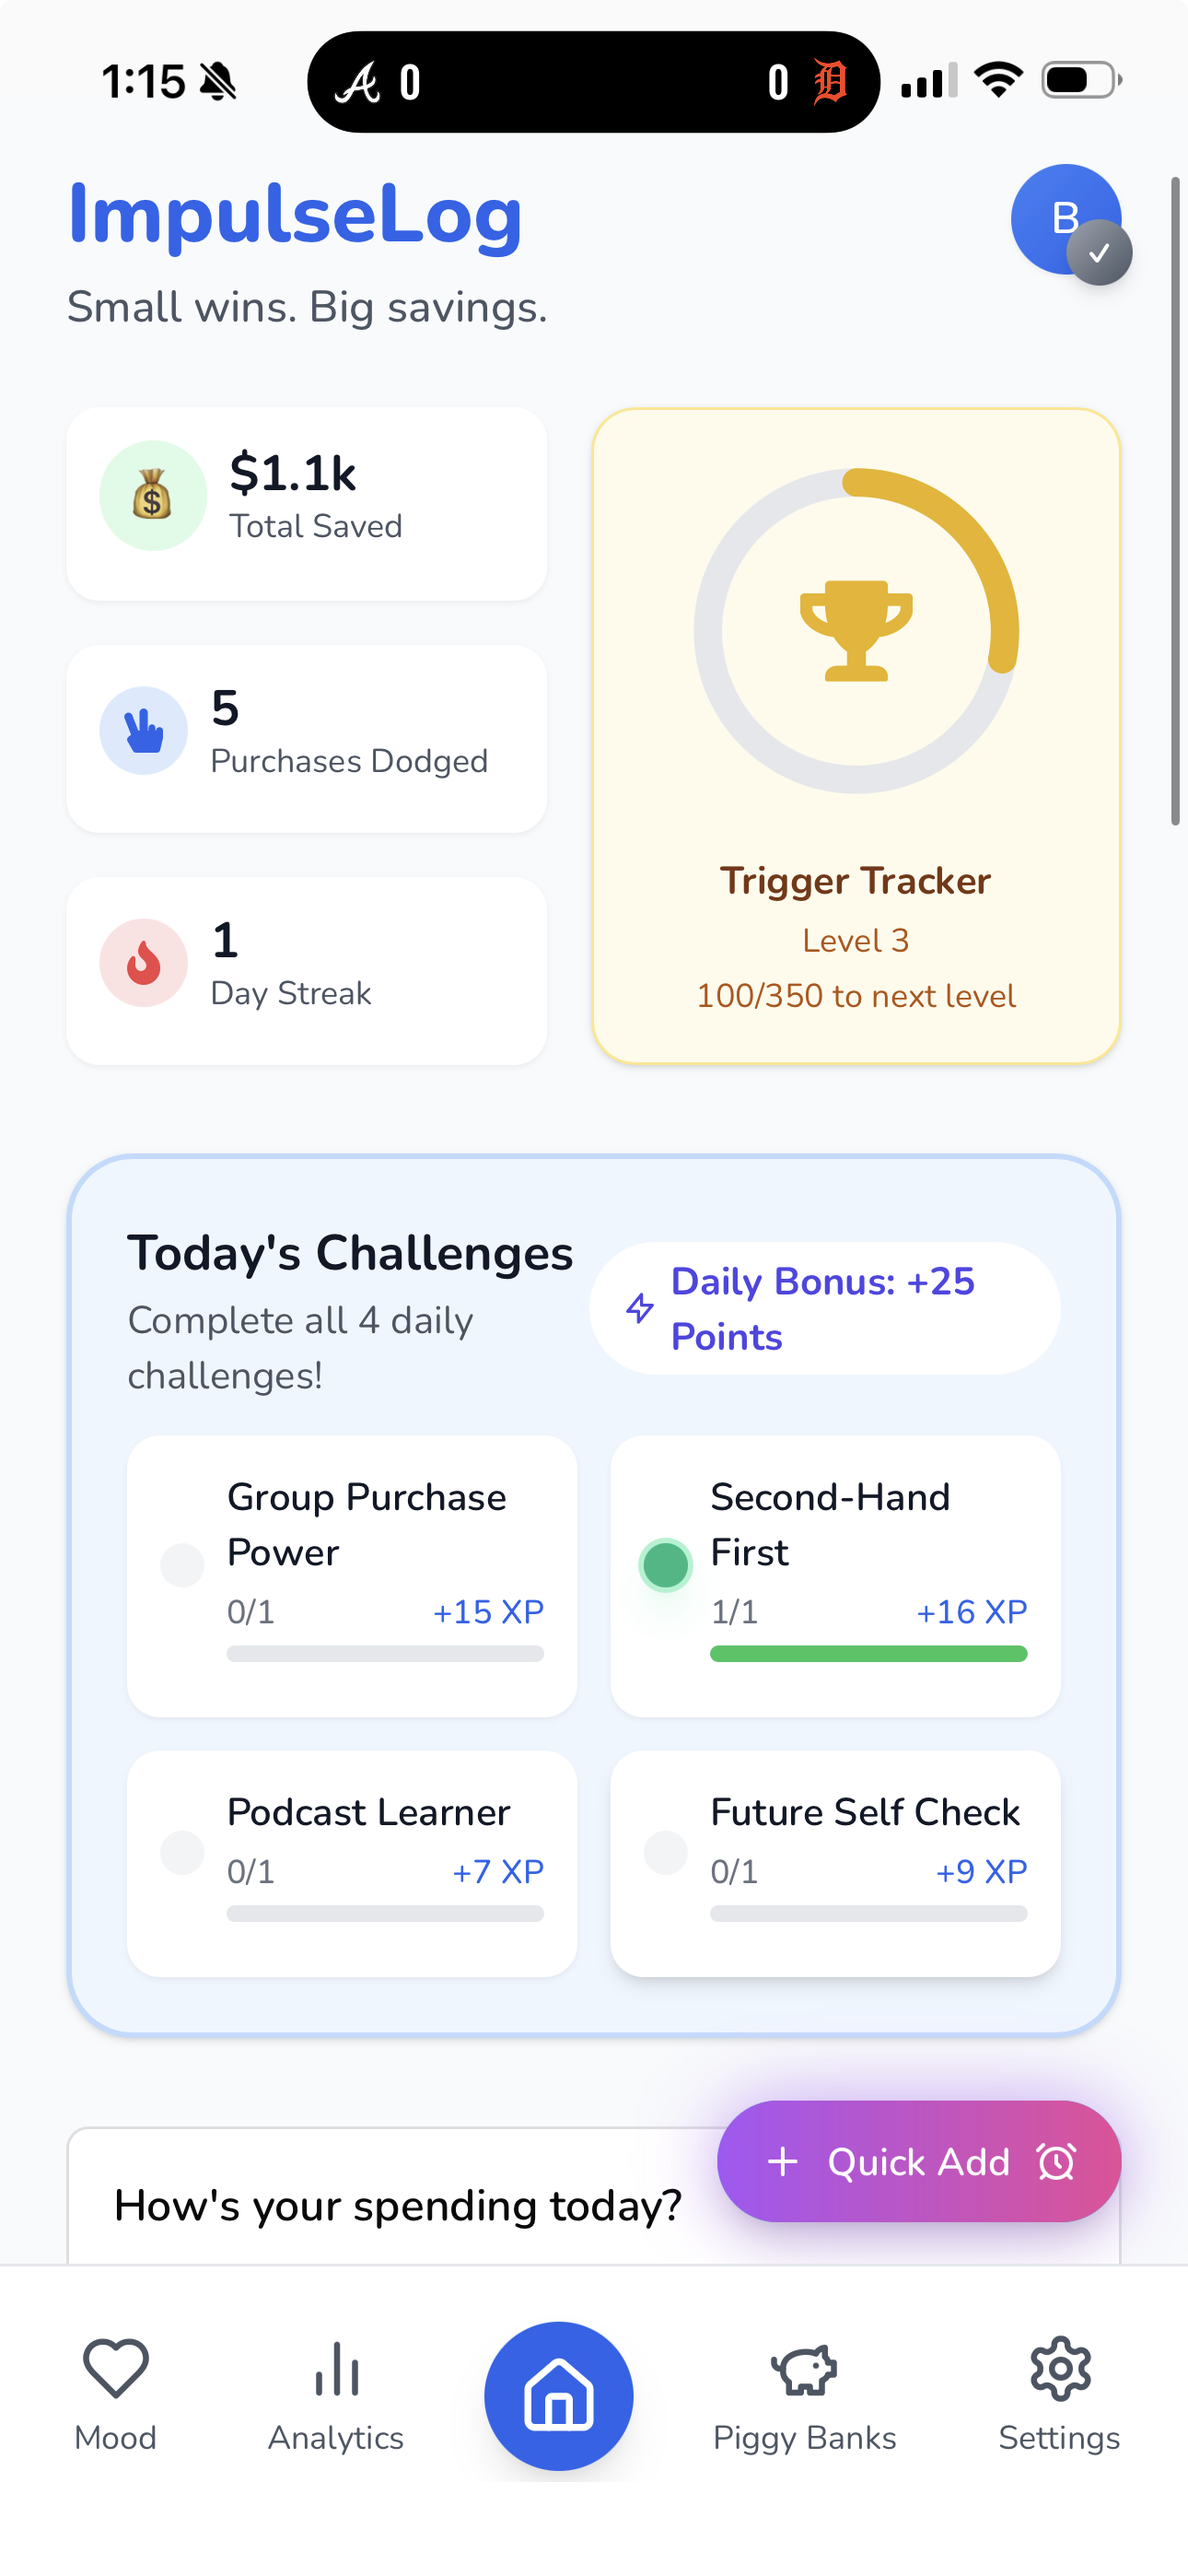
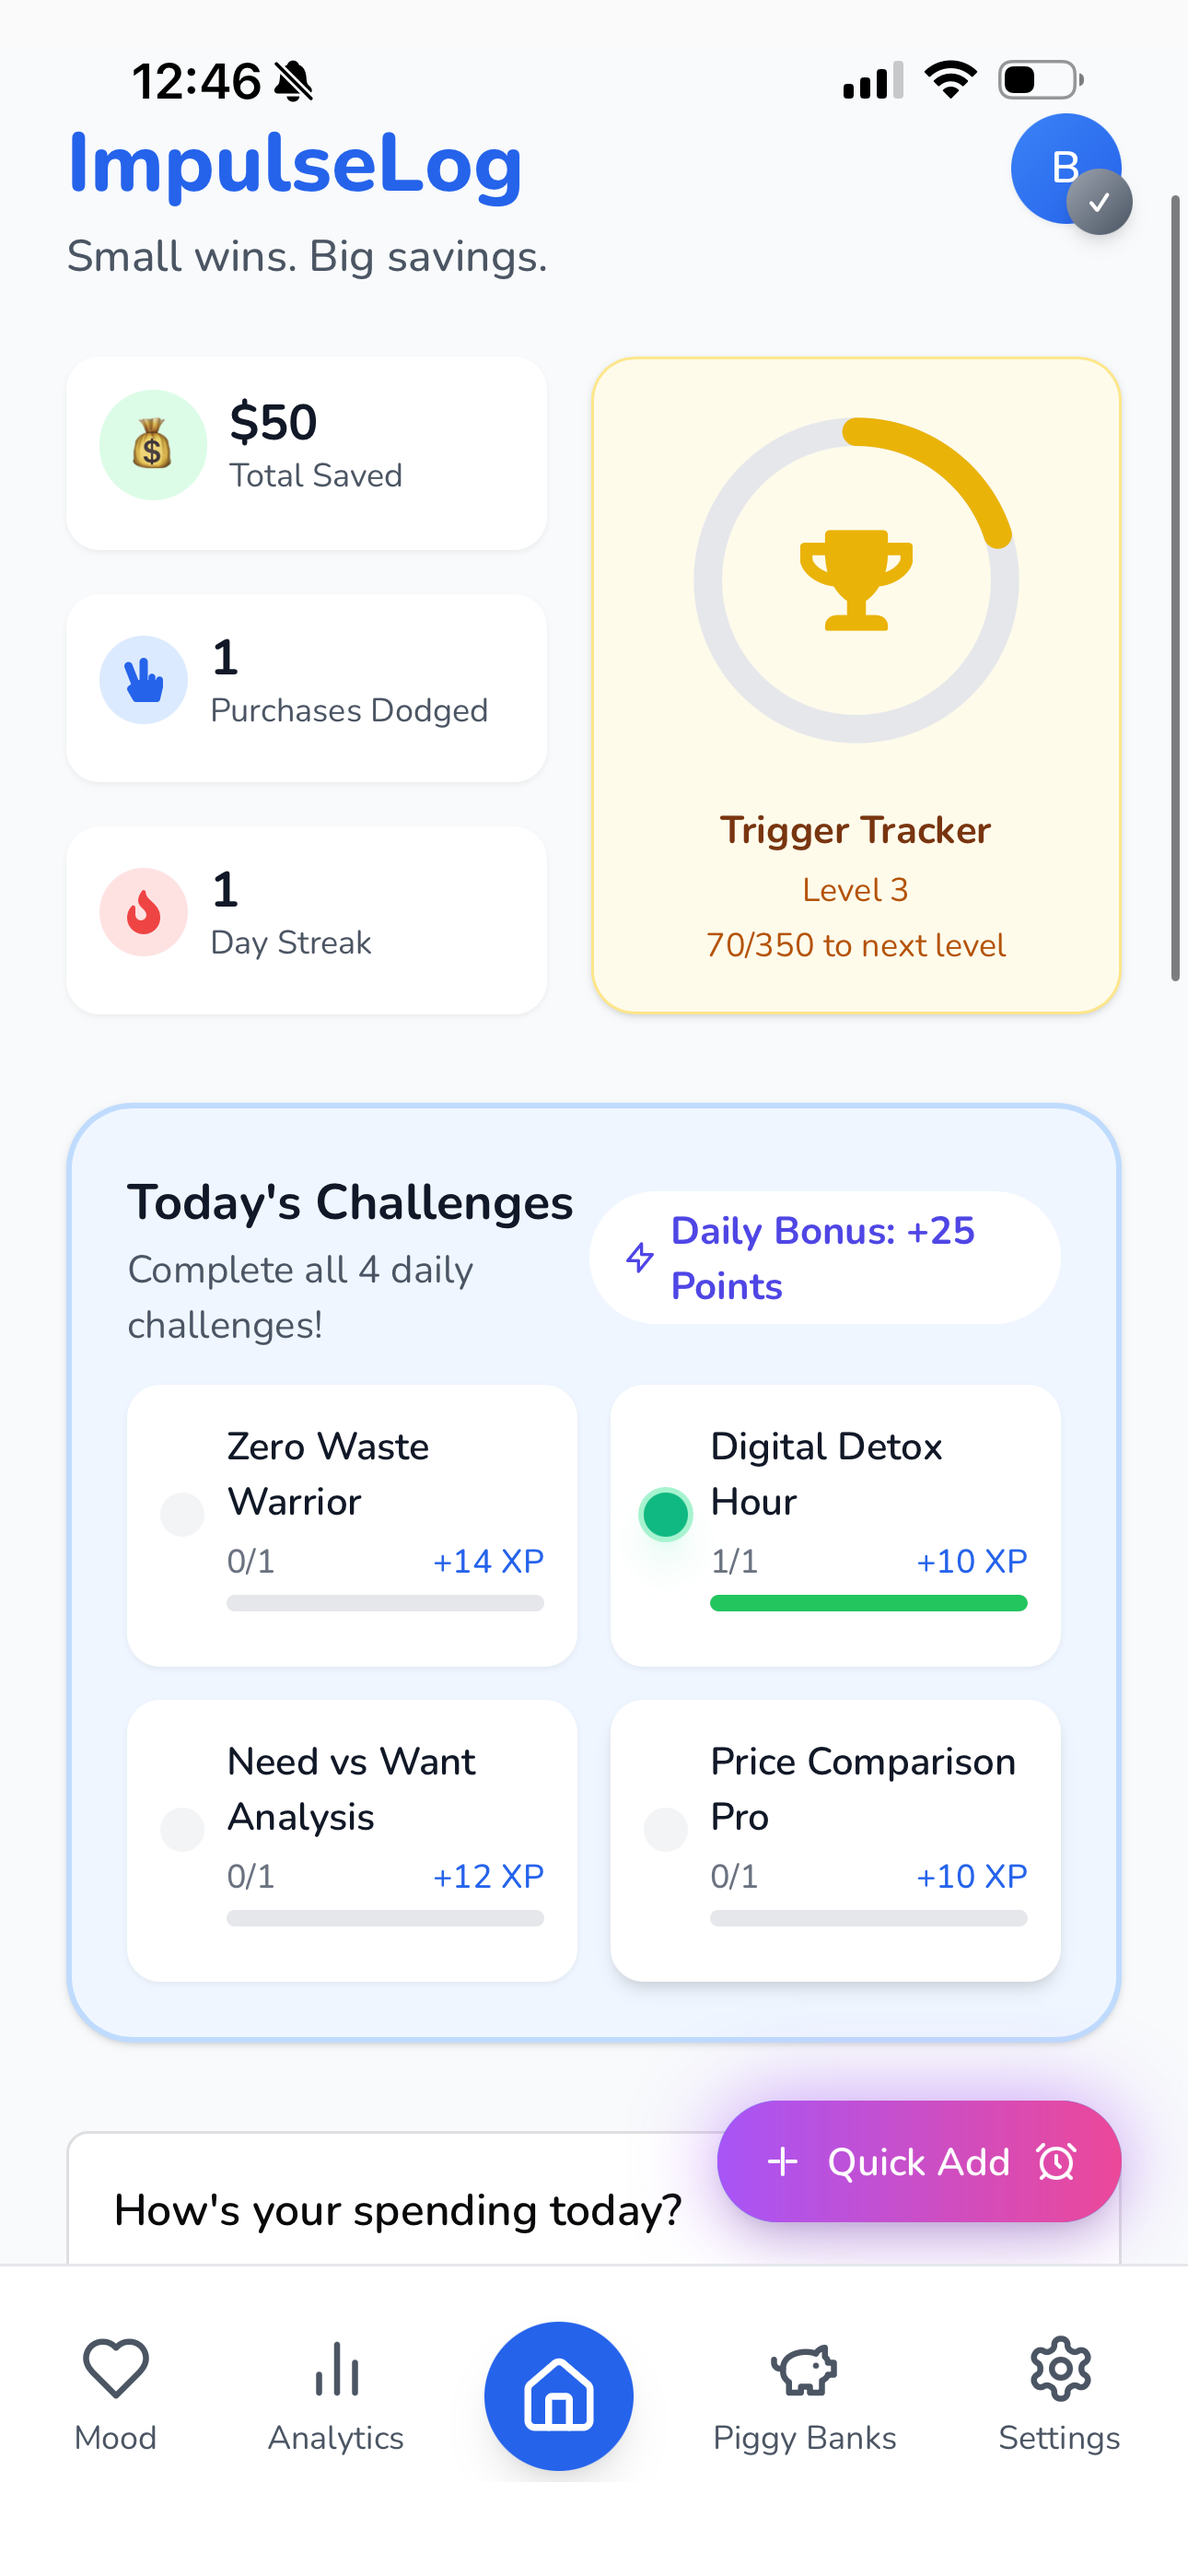
Adjust iPhone frame heights for iPhone 15 Pro Max screenshots
- Increased frame heights to prevent top cutoff
- Desktop: 640px → 680px (hero), 700px → 740px (carousel)
- Mobile: proportionally adjusted
- Updated dashboard.png with latest screenshot

🤖 Generated with [Claude Code](https://claude.ai/code)

diff --git a/styles.css b/styles.css
@@ -299,11 +299,11 @@ p {
 
 .phone-mockup {
     width: 320px;
-    height: 640px;
+    height: 680px;
     background: #1a1a1a;
     border-radius: 40px;
     padding: 8px;
-    box-shadow: 
+    box-shadow:
         0 50px 100px -20px rgba(50, 50, 93, 0.25),
         0 30px 60px -30px rgba(0, 0, 0, 0.3),
         inset 0 -2px 6px 0 rgba(10, 37, 64, 0.35);
@@ -355,11 +355,11 @@ p {
 
 .iphone-frame {
     width: 350px;
-    height: 700px;
+    height: 740px;
     background: #1a1a1a;
     border-radius: 45px;
     padding: 10px;
-    box-shadow: 
+    box-shadow:
         0 50px 100px -20px rgba(50, 50, 93, 0.25),
         0 30px 60px -30px rgba(0, 0, 0, 0.3),
         inset 0 -2px 6px 0 rgba(10, 37, 64, 0.35);
@@ -883,7 +883,7 @@ p {
     
     .phone-mockup {
         width: 280px;
-        height: 560px;
+        height: 595px;
     }
     
     /* Value Props */
@@ -939,7 +939,7 @@ p {
     /* Screenshots */
     .iphone-frame {
         width: 300px;
-        height: 600px;
+        height: 635px;
     }
     
     .screenshot-container {
